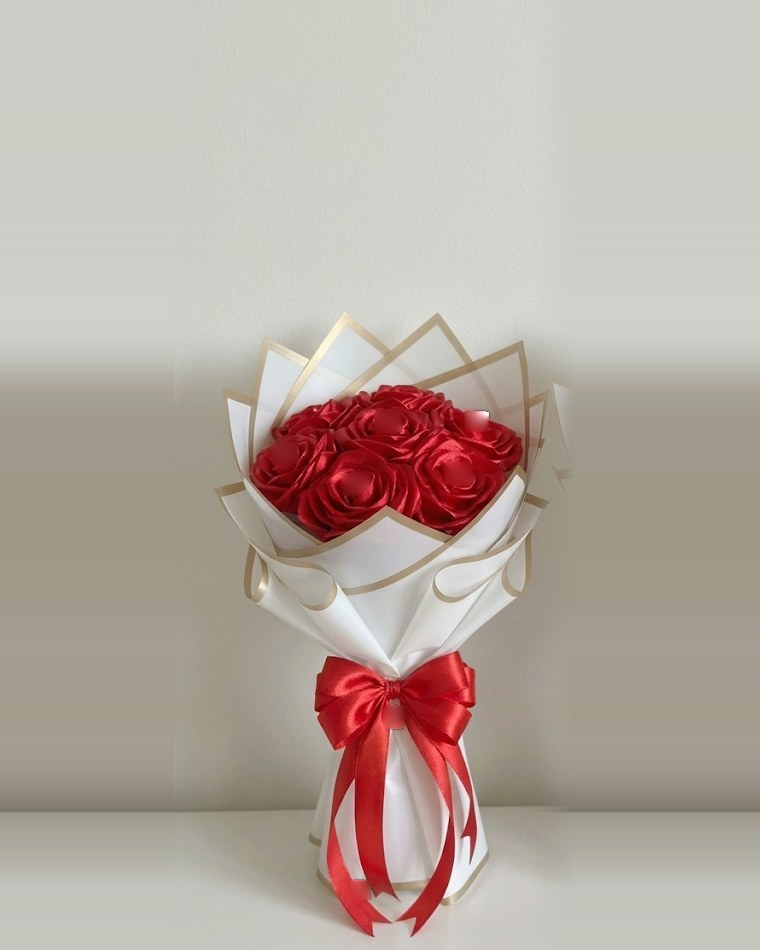
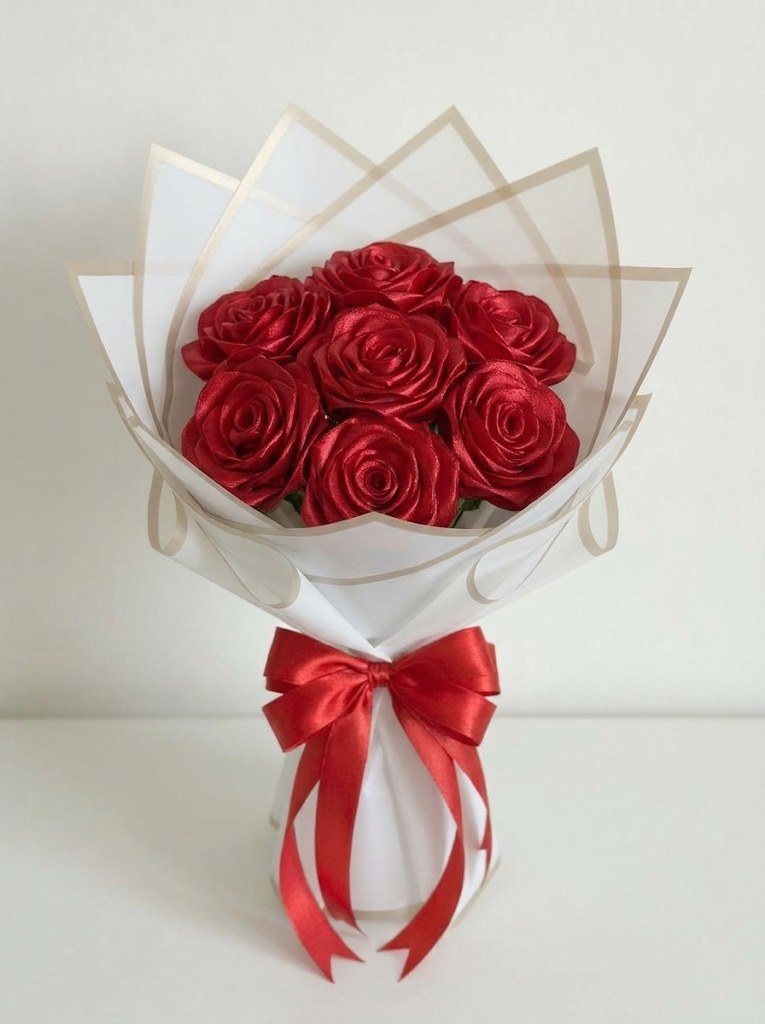
Pearl-free photos for 1, 3 and 7 red roses in white wrap
Claude-Session: https://claude.ai/code/session_01GvQGKs82VGAi27JdspmeE6

diff --git a/about.html b/about.html
@@ -6,7 +6,7 @@
 <link rel="preconnect" href="https://fonts.googleapis.com">
 <link rel="preconnect" href="https://fonts.gstatic.com" crossorigin>
 <link href="https://fonts.googleapis.com/css2?family=Great+Vibes&family=Playfair+Display:wght@500;600;700&family=Poppins:wght@400;500;600&display=swap" rel="stylesheet">
-<link rel="stylesheet" href="assets/css/styles.css?v=202610230949">
+<link rel="stylesheet" href="assets/css/styles.css?v=202610230957">
 <link rel="icon" href="assets/favicon.svg" type="image/svg+xml">
 <title>About Our Flowers | Fleure</title>
 <meta name="description" content="Handmade bouquets shaped by hand from soft pipe cleaners and satin ribbon, made slowly in a small studio.">
@@ -53,9 +53,9 @@
     <a class="btn btn-outline" href="custom.html">Place a custom order</a>
   </div>
 </main>
-<script src="assets/js/data.js?v=202610230949"></script>
-<script src="assets/js/bouquet.js?v=202610230949"></script>
-<script src="assets/js/app.js?v=202610230949"></script>
+<script src="assets/js/data.js?v=202610230957"></script>
+<script src="assets/js/bouquet.js?v=202610230957"></script>
+<script src="assets/js/app.js?v=202610230957"></script>
 <script>document.getElementById("arrange-img").src = productImage(byId("sunflower-rose-tulip"));
 document.querySelectorAll("[data-icon]").forEach((el) => (el.innerHTML = ICONS[el.dataset.icon]));</script>
 </body>

diff --git a/contact.html b/contact.html
@@ -6,7 +6,7 @@
 <link rel="preconnect" href="https://fonts.googleapis.com">
 <link rel="preconnect" href="https://fonts.gstatic.com" crossorigin>
 <link href="https://fonts.googleapis.com/css2?family=Great+Vibes&family=Playfair+Display:wght@500;600;700&family=Poppins:wght@400;500;600&display=swap" rel="stylesheet">
-<link rel="stylesheet" href="assets/css/styles.css?v=202610230949">
+<link rel="stylesheet" href="assets/css/styles.css?v=202610230957">
 <link rel="icon" href="assets/favicon.svg" type="image/svg+xml">
 <title>Contact | Fleure</title>
 <meta name="description" content="Have a question, an idea or a custom request? Reach us on WhatsApp.">
@@ -35,9 +35,9 @@
   </section>
   <div class="thanks"><span class="script">Thank you</span>for supporting handmade</div>
 </main>
-<script src="assets/js/data.js?v=202610230949"></script>
-<script src="assets/js/bouquet.js?v=202610230949"></script>
-<script src="assets/js/app.js?v=202610230949"></script>
+<script src="assets/js/data.js?v=202610230957"></script>
+<script src="assets/js/bouquet.js?v=202610230957"></script>
+<script src="assets/js/app.js?v=202610230957"></script>
 <script>
   document.querySelectorAll("[data-wa]").forEach((a) => (a.href = waLink(a.dataset.wa)));
   document.querySelectorAll("[data-icon]").forEach((el) => (el.innerHTML = ICONS[el.dataset.icon]));

diff --git a/index.html b/index.html
@@ -6,7 +6,7 @@
 <link rel="preconnect" href="https://fonts.googleapis.com">
 <link rel="preconnect" href="https://fonts.gstatic.com" crossorigin>
 <link href="https://fonts.googleapis.com/css2?family=Great+Vibes&family=Playfair+Display:wght@500;600;700&family=Poppins:wght@400;500;600&display=swap" rel="stylesheet">
-<link rel="stylesheet" href="assets/css/styles.css?v=202610230949">
+<link rel="stylesheet" href="assets/css/styles.css?v=202610230957">
 <link rel="icon" href="assets/favicon.svg" type="image/svg+xml">
 <title>Fleure | Handmade Flower Bouquets</title>
 <meta name="description" content="Handmade forever flowers that never wilt: pipe-cleaner and satin ribbon bouquets, made to order. Order on WhatsApp.">
@@ -72,9 +72,9 @@
     </div>
   </section>
 </main>
-<script src="assets/js/data.js?v=202610230949"></script>
-<script src="assets/js/bouquet.js?v=202610230949"></script>
-<script src="assets/js/app.js?v=202610230949"></script>
+<script src="assets/js/data.js?v=202610230957"></script>
+<script src="assets/js/bouquet.js?v=202610230957"></script>
+<script src="assets/js/app.js?v=202610230957"></script>
 <script>
   document.querySelectorAll("[data-shop-name]").forEach((el) => (el.textContent = SHOP.name));
   document.querySelectorAll("[data-wa]").forEach((a) => (a.href = waLink(a.dataset.wa)));

diff --git a/how-to-order.html b/how-to-order.html
@@ -6,7 +6,7 @@
 <link rel="preconnect" href="https://fonts.googleapis.com">
 <link rel="preconnect" href="https://fonts.gstatic.com" crossorigin>
 <link href="https://fonts.googleapis.com/css2?family=Great+Vibes&family=Playfair+Display:wght@500;600;700&family=Poppins:wght@400;500;600&display=swap" rel="stylesheet">
-<link rel="stylesheet" href="assets/css/styles.css?v=202610230949">
+<link rel="stylesheet" href="assets/css/styles.css?v=202610230957">
 <link rel="icon" href="assets/favicon.svg" type="image/svg+xml">
 <title>How to Order + FAQ | Fleure</title>
 <meta name="description" content="How to order a handmade bouquet on WhatsApp, plus answers about flower care, delivery and payment.">
@@ -41,9 +41,9 @@
     </div>
   </section>
 </main>
-<script src="assets/js/data.js?v=202610230949"></script>
-<script src="assets/js/bouquet.js?v=202610230949"></script>
-<script src="assets/js/app.js?v=202610230949"></script>
+<script src="assets/js/data.js?v=202610230957"></script>
+<script src="assets/js/bouquet.js?v=202610230957"></script>
+<script src="assets/js/app.js?v=202610230957"></script>
 <script>
   document.querySelectorAll("[data-wa]").forEach((a) => (a.href = waLink(a.dataset.wa)));
   document.querySelectorAll("[data-icon]").forEach((el) => (el.innerHTML = ICONS[el.dataset.icon]));

diff --git a/custom.html b/custom.html
@@ -6,7 +6,7 @@
 <link rel="preconnect" href="https://fonts.googleapis.com">
 <link rel="preconnect" href="https://fonts.gstatic.com" crossorigin>
 <link href="https://fonts.googleapis.com/css2?family=Great+Vibes&family=Playfair+Display:wght@500;600;700&family=Poppins:wght@400;500;600&display=swap" rel="stylesheet">
-<link rel="stylesheet" href="assets/css/styles.css?v=202610230949">
+<link rel="stylesheet" href="assets/css/styles.css?v=202610230957">
 <link rel="icon" href="assets/favicon.svg" type="image/svg+xml">
 <title>Build Your Own Bouquet | Fleure</title>
 <meta name="description" content="Create a custom handmade bouquet: choose flowers, colours, wrap and a gift note, then send your order on WhatsApp.">
@@ -55,9 +55,9 @@
     </form>
   </section>
 </main>
-<script src="assets/js/data.js?v=202610230949"></script>
-<script src="assets/js/bouquet.js?v=202610230949"></script>
-<script src="assets/js/app.js?v=202610230949"></script>
+<script src="assets/js/data.js?v=202610230957"></script>
+<script src="assets/js/bouquet.js?v=202610230957"></script>
+<script src="assets/js/app.js?v=202610230957"></script>
 <script>
   document.querySelectorAll("[data-wa]").forEach((a) => (a.href = waLink(a.dataset.wa)));
   document.getElementById("occasions").innerHTML = [

diff --git a/shop.html b/shop.html
@@ -6,7 +6,7 @@
 <link rel="preconnect" href="https://fonts.googleapis.com">
 <link rel="preconnect" href="https://fonts.gstatic.com" crossorigin>
 <link href="https://fonts.googleapis.com/css2?family=Great+Vibes&family=Playfair+Display:wght@500;600;700&family=Poppins:wght@400;500;600&display=swap" rel="stylesheet">
-<link rel="stylesheet" href="assets/css/styles.css?v=202610230949">
+<link rel="stylesheet" href="assets/css/styles.css?v=202610230957">
 <link rel="icon" href="assets/favicon.svg" type="image/svg+xml">
 <title>Shop Bouquets | Fleure</title>
 <meta name="description" content="Single flower, double flower and combination bouquets from ₹89, satin ribbon roses and special occasion bouquets. Handmade to order.">
@@ -22,9 +22,9 @@
   </div>
   <div id="rows"></div>
 </main>
-<script src="assets/js/data.js?v=202610230949"></script>
-<script src="assets/js/bouquet.js?v=202610230949"></script>
-<script src="assets/js/app.js?v=202610230949"></script>
+<script src="assets/js/data.js?v=202610230957"></script>
+<script src="assets/js/bouquet.js?v=202610230957"></script>
+<script src="assets/js/app.js?v=202610230957"></script>
 <script>
   const rows = document.getElementById("rows");
   const filters = document.getElementById("filters");

diff --git a/product.html b/product.html
@@ -6,7 +6,7 @@
 <link rel="preconnect" href="https://fonts.googleapis.com">
 <link rel="preconnect" href="https://fonts.gstatic.com" crossorigin>
 <link href="https://fonts.googleapis.com/css2?family=Great+Vibes&family=Playfair+Display:wght@500;600;700&family=Poppins:wght@400;500;600&display=swap" rel="stylesheet">
-<link rel="stylesheet" href="assets/css/styles.css?v=202610230949">
+<link rel="stylesheet" href="assets/css/styles.css?v=202610230957">
 <link rel="icon" href="assets/favicon.svg" type="image/svg+xml">
 <title>Bouquet | Fleure</title>
 <meta name="description" content="Handmade bouquet, made to order. Choose colours and wrap, and order on WhatsApp.">
@@ -19,9 +19,9 @@
     <div class="product-grid" id="related"></div>
   </section>
 </main>
-<script src="assets/js/data.js?v=202610230949"></script>
-<script src="assets/js/bouquet.js?v=202610230949"></script>
-<script src="assets/js/app.js?v=202610230949"></script>
+<script src="assets/js/data.js?v=202610230957"></script>
+<script src="assets/js/bouquet.js?v=202610230957"></script>
+<script src="assets/js/app.js?v=202610230957"></script>
 <script>
   const params = new URLSearchParams(location.search);
   const p = byId(params.get("id"));
